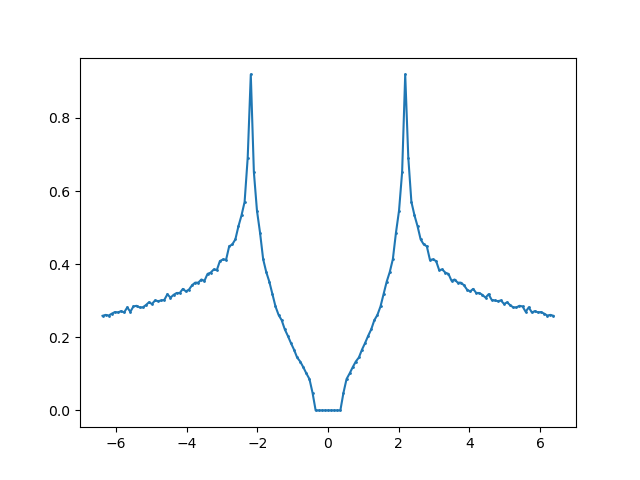
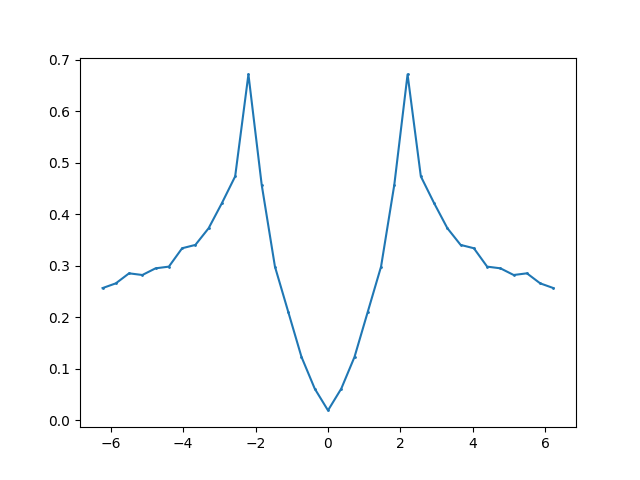
energy calc seems successful

diff --git a/AFM_honeycomb_test/Hamiltonian.py b/AFM_honeycomb_test/Hamiltonian.py
@@ -9,7 +9,7 @@ from scipy.linalg import circulant
 import sys  
 
 class Ham():
-    def __init__(self, hbvf, latt, rescale=None, mu=0, Mz=0.2):
+    def __init__(self, hbvf, latt, rescale=None):
         if rescale is None:
             self.rescale = 1
         else:
@@ -17,8 +17,6 @@ class Ham():
         
         self.hvkd = self.rescale*hbvf
         self.latt=latt
-        self.mu=mu*self.hvkd
-        self.Mz=Mz*self.hvkd
         
         
         
@@ -28,8 +26,10 @@ class Ham():
 
     # METHODS FOR CALCULATING THE DISPERSION
     
-    def eigens(self, kx,ky):
+    def eigens(self, kx,ky, Mz=0):
         [GM1,GM2]=self.latt.LMvec
+        
+        Mzev=Mz*self.hvkd 
 
         e1=(GM1+GM2)/3
         e2=(-2*GM1+GM2)/3
@@ -41,15 +41,15 @@ class Ham():
         
         ee=(np.exp(1j*k@e1)+np.exp(1j*k@e2)+np.exp(1j*k@e3))
         hk=W3*ee
-        hk_n=np.sqrt( np.abs(hk)**2 +self.Mz**2 )
+        hk_n=np.sqrt( np.abs(hk)**2 +Mzev**2 )
         
         #wavefunctions
-        invsqrt=np.sqrt( 1/2 - self.Mz/(2*hk_n) )
-        subsM=self.Mz-hk_n
+        invsqrt=np.sqrt( 1/2 - Mzev/(2*hk_n) )
+        subsM=Mzev-hk_n
         sqrt2=np.sqrt(2)
         vup_1=invsqrt*subsM/(hk*sqrt2)
         vup_2=invsqrt
-        vdown_1=np.conj(hk)/(sqrt2*(self.Mz*subsM+np.abs(hk)**2 ))
+        vdown_1=np.conj(hk)/(sqrt2*(Mzev*subsM+np.abs(hk)**2 ))
         vdown_2=invsqrt
         
         # print(k@e1,k@e2,k@e3,hk_n, 2*np.pi*1/3)
@@ -62,7 +62,7 @@ class Ham():
         psi[:,1]=psi2
 
         
-        return np.array([self.mu-hk_n,self.mu+hk_n ]), psi
+        return np.array([-hk_n,+hk_n ]), psi
     
     def ExtendE(self,E_k , umklapp):
         Gu=self.latt.Umklapp_List(umklapp)
@@ -91,7 +91,7 @@ class Dispersion():
         self.latt=latt
     
     
-    def precompute_E_psi_1v(self):
+    def precompute_E_psi_1v(self,Mz=0):
     
         Ene_valley_plus_a=np.empty((0))
         psi_plus_a=[]
@@ -102,7 +102,7 @@ class Dispersion():
         s=time.time()
         
         for l in range(self.Npoi1bz):
-            E1,wave1=self.hpl.eigens(self.KX1bz[l],self.KY1bz[l])
+            E1,wave1=self.hpl.eigens(self.KX1bz[l],self.KY1bz[l],Mz=0)
             Ene_valley_plus_a=np.append(Ene_valley_plus_a,E1)
             psi_plus_a.append(wave1)
 
@@ -209,6 +209,7 @@ class Dispersion():
                 return None
         return (a_n + b_n)/2
 
+
     def chem_for_filling(self, fill, f2, earr):
         
         NN=10000
@@ -246,6 +247,7 @@ class Dispersion():
                 print("TOO MUCH ERROR IN THE FILLING CALCULATION") 
             
         return [mu, nfil, mus,nn]
+    
     
     def mu_filling_array(self, Nfil, read, write, calculate):
         
@@ -302,11 +304,9 @@ class Dispersion():
     ### FERMI SURFACE ANALYSIS
 
 
-    def High_symmetry(self):
+    def High_symmetry(self,Mz=0):
         Ene_valley_plus_a=np.empty((0))
-        Ene_valley_min_a=np.empty((0))
         psi_plus_a=[]
-        psi_min_a=[]
 
         nbands=self.nbands
         kpath=self.latt.High_symmetry_path()
@@ -315,35 +315,58 @@ class Dispersion():
         for l in range(Npoi):
             # h.umklapp_lattice()
             # break
-            E1p,wave1p=self.hpl.eigens(kpath[l,0],kpath[l,1])
+            E1p,wave1p=self.hpl.eigens(kpath[l,0],kpath[l,1],Mz=0)
             Ene_valley_plus_a=np.append(Ene_valley_plus_a,E1p)
             psi_plus_a.append(wave1p)
 
 
-            E1m,wave1m=self.hmin.eigens(kpath[l,0],kpath[l,1])
-            Ene_valley_min_a=np.append(Ene_valley_min_a,E1m)
-            psi_min_a.append(wave1m)
-
         Ene_valley_plus= np.reshape(Ene_valley_plus_a,[Npoi,nbands])
-        Ene_valley_min= np.reshape(Ene_valley_min_a,[Npoi,nbands])
-
     
-
         print("the shape of the energy array is",np.shape(Ene_valley_plus))
         qa=np.linspace(0,1,Npoi)
         for i in range(nbands):
             plt.plot(qa,Ene_valley_plus[:,i] , c='b')
-            plt.plot(qa,Ene_valley_min[:,i] , c='r', ls="--")
         plt.xlim([0,1])
         # plt.ylim([-0.009,0.009])
         plt.savefig("highsym.png")
         plt.close()
-        return [Ene_valley_plus, Ene_valley_min]
+        return [Ene_valley_plus]
     
-    def calc_energy(self,dos_arr, earr,T, mu):
+    
+    #energy calculation
+    
+    def nf(self, e, T):
+        
+        """[summary]
+        fermi occupation function with a truncation if the argument exceeds 
+        double precission
+
+        Args:
+            e ([double]): [description] energy
+            T ([double]): [description] temperature
+
+        Returns:
+            [double]: [description] value of the fermi function 
+        """
+        Tp=T+1e-17 #To capture zero temperature
+        rat=np.abs(np.max(e/Tp))
+        
+        if rat<700:
+            return 1/(1+np.exp( e/T ))
+        else:
+            return np.heaviside(-e,0.5)
+        
+    
+    def calc_energy_MZ(self,T, mu, MZ):
+        T_ev=T*self.hpl.hvkd 
+        mu_ev=mu*self.hpl.hvkd 
+        U=3*self.hpl.hvkd  #to reproduce liang-fu;s calculation
+        [psi_plus,Ene_valley_plus_dos]=self.precompute_E_psi_1v(MZ)
+        [earr, dos_arr, f2 ]=self.DOS(Ene_valley_plus_dos)
         de=earr[1]-earr[0]
-        inte=np.trapz(dos_arr*earr*self.nf(earr,T, mu))*de
+        inte=np.trapz(dos_arr*earr*self.nf(earr-mu_ev,T_ev))*de +(MZ*self.hpl.hvkd )**2 /U
         return inte
+    
 
 
 def main() -> int:
@@ -394,6 +417,14 @@ def main() -> int:
     mu=mu_values[filling_index]
     filling=fillings[filling_index]
     print("CHEMICAL POTENTIAL AND FILLING", mu, filling)
+    
+    MZ=0.2
+    T=0.15
+    s=time.time()
+    Energy_calc=disp.calc_energy_MZ(T, mu, MZ)
+    e=time.time()
+    print(Energy_calc, "time for energy calc", e-s)
+    
     
 
     
